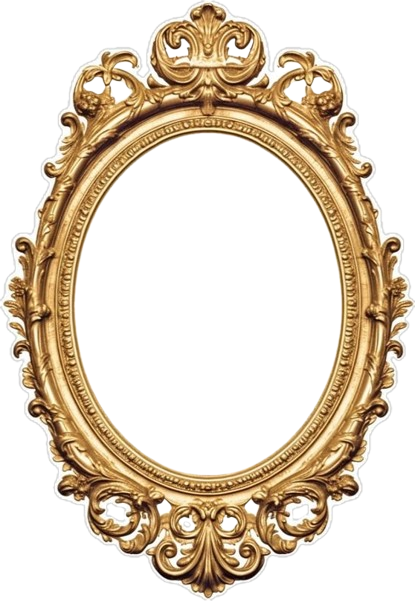
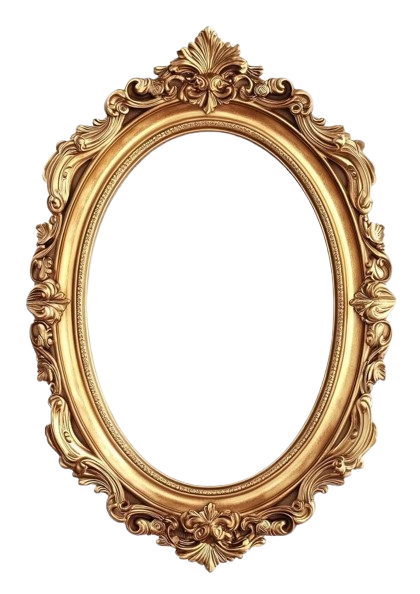
attempt to improve cropping, kinda get there but it's time for bed

diff --git a/src/lib/frames.ts b/src/lib/frames.ts
@@ -14,18 +14,21 @@ export interface FrameConfig {
   shape: FrameShape;
   innerPadding: FrameInnerPadding;
   selectionScale?: number; // scale factor for selection bounding box
+  cropPadding: { top: number; right: number; bottom: number; left: number };
 }
 
+
 export const FRAMES: FrameConfig[] = [
-  { file: "frame1.png", label: "Ornate Gold",      aspect: 3/4,  selectionScale: 1.0,  shape: "rect",   innerPadding: { top: 10, right: 10, bottom: 9,  left: 10 } },
-  { file: "frame2.png", label: "Circle Gold",      aspect: 1/1,  selectionScale: 0.94, shape: "circle", innerPadding: { top: 16, right: 16, bottom: 16, left: 16 } },
-  { file: "frame3.png", label: "Thin Ornate",      aspect: 3/4,  selectionScale: 1.0,  shape: "rect",   innerPadding: { top: 12, right: 10, bottom: 12, left: 10 } },
-  { file: "frame4.png", label: "Simple Gold",      aspect: 3/4,  selectionScale: 1.0,  shape: "rect",   innerPadding: { top: 10, right: 10, bottom: 10, left: 10 } },
-  { file: "frame5.png", label: "Heart",            aspect: 1/1,  selectionScale: 1.0,  shape: "circle", innerPadding: { top: 12, right: 12, bottom: 10, left: 12 } },
-  { file: "frame6.png", label: "Oval Gold",        aspect: 2/3,  selectionScale: 1.0, shape: "oval",   innerPadding: { top: 15, right: 18, bottom: 15, left: 18 } },
-  { file: "frame7.png", label: "Silver Square",    aspect: 1/1,  selectionScale: 1.04,  shape: "rect",   innerPadding: { top: 13, right: 13, bottom: 13, left: 13 } },
-  { file: "frame8.png", label: "Gold Rectangular", aspect: 4/3,  selectionScale: 1.1,  shape: "rect",   innerPadding: { top: 13, right: 8,  bottom: 8,  left: 8  } },
+  { file: "frame1.png", label: "Ornate Gold",      aspect: 3/4,  selectionScale: 1.0,  shape: "rect",   innerPadding: { top: 10, right: 10, bottom: 9,  left: 10 }, cropPadding: { top: 0.18, right: 0.18, bottom: 0.18, left: 0.18 }},
+  { file: "frame2.png", label: "Circle Gold",      aspect: 1/1,  selectionScale: 1.0,  shape: "circle", innerPadding: { top: 16, right: 16, bottom: 16, left: 16 }, cropPadding: { top: 0.28, right: 0.22, bottom: 0.32, left: 0.22 } },
+  { file: "frame3.png", label: "Thin Ornate",      aspect: 3/4,  selectionScale: 1.0,  shape: "rect",   innerPadding: { top: 12, right: 10, bottom: 12, left: 10 }, cropPadding: { top: 0.18, right: 0.18, bottom: 0.18, left: 0.18 } },
+  { file: "frame4.png", label: "Simple Gold",      aspect: 3/4,  selectionScale: 1.0,  shape: "rect",   innerPadding: { top: 10, right: 10, bottom: 10, left: 10 }, cropPadding: { top: 0.18, right: 0.18, bottom: 0.18, left: 0.18 } },
+  { file: "frame5.png", label: "Heart",            aspect: 1/1,  selectionScale: 1.0,  shape: "circle", innerPadding: { top: 12, right: 12, bottom: 10, left: 12 }, cropPadding: { top: 0.08, right: 0.15, bottom: 0.0, left: 0.08 } },
+  { file: "frame6.png", label: "Oval Gold",        aspect: 2/3,  selectionScale: 1.0,  shape: "oval",   innerPadding: { top: 15, right: 18, bottom: 15, left: 18 }, cropPadding: { top: 0.28, right: 0.22, bottom: 0.32, left: 0.22 } },
+  { file: "frame7.png", label: "Silver Square",    aspect: 1/1,  selectionScale: 1.04, shape: "rect",   innerPadding: { top: 13, right: 13, bottom: 13, left: 13 }, cropPadding: { top: 0.18, right: 0.18, bottom: 0.18, left: 0.18 } },
+  { file: "frame8.png", label: "Gold Rectangular", aspect: 4/3,  selectionScale: 1.1,  shape: "rect",   innerPadding: { top: 13, right: 8,  bottom: 8,  left: 8  }, cropPadding: { top: 0.18, right: 0.18, bottom: 0.18, left: 0.18 } },
 ];
+
 
 
 export const DEFAULT_FRAME_FILE = "frame1.png";

diff --git a/src/components/dashboard/UploadZone.tsx b/src/components/dashboard/UploadZone.tsx
@@ -139,7 +139,7 @@ export function UploadZone({
       const { width, height } = e.currentTarget;
       const initial = centerCrop(
         makeAspectCrop(
-          { unit: "%", width: 80 },
+          { unit: "%", width: selectedFrame.shape === "circle" || selectedFrame.shape === "oval" ? 60 : 80 },
           selectedFrame.aspect,
           width,
           height
@@ -446,24 +446,26 @@ export function UploadZone({
                   style={{ maxHeight: 480, display: "block" }}
                 />
               </ReactCrop>
-              {pixelCrop && pixelCrop.width > 0 && (
-                // eslint-disable-next-line @next/next/no-img-element
-                <img
-                  src={`/frames/${selectedFrame.file}`}
-                  alt=""
-                  aria-hidden
-                  style={{
-                    position: "absolute",
-                    top: pixelCrop.y,
-                    left: pixelCrop.x,
-                    width: pixelCrop.width,
-                    height: pixelCrop.height,
-                    pointerEvents: "none",
-                    opacity: 0.7,
-                    zIndex: 5,
-                  }}
-                />
-              )}
+              {pixelCrop && pixelCrop.width > 0 && (() => {
+  const p = selectedFrame.cropPadding;
+  return (
+    <img
+      src={`/frames/${selectedFrame.file}`}
+      alt=""
+      aria-hidden
+      style={{
+        position: "absolute",
+        top:  pixelCrop.y - pixelCrop.height * selectedFrame.cropPadding.top,
+        left: pixelCrop.x - pixelCrop.width  * selectedFrame.cropPadding.left,
+        width:  pixelCrop.width  * (1 + selectedFrame.cropPadding.left + selectedFrame.cropPadding.right),
+        height: "auto",
+        pointerEvents: "none",
+        opacity: 0.6,
+        zIndex: 5,
+      }}
+    />
+  );
+})()}
             </div>
           </div>
 

diff --git a/src/components/gallery/GalleryEditorCanvas.tsx b/src/components/gallery/GalleryEditorCanvas.tsx
@@ -304,6 +304,7 @@ export function GalleryEditorCanvas({ artworks, profileId, onCancel, onSaved, on
       <div
         ref={canvasRef}
         className="relative flex-1 overflow-hidden"
+        style={{ minHeight: 800 }}
         onClick={() => setSelectedId(null)}
       >
         {items.map(item => {
@@ -311,8 +312,6 @@ export function GalleryEditorCanvas({ artworks, profileId, onCancel, onSaved, on
           const px = (item.xPct / 100) * canvasDims.width;
           const py = (item.yPct / 100) * canvasDims.height;
           const isSelected = item.id === selectedId;
-          const artW = BASE_WIDTH * item.scale;
-          const artH = BASE_WIDTH * 1.35 * item.scale;
 
           // Bounding box: rotate all 4 corners around top-left origin (0,0)
           const radians = (item.rotation * Math.PI) / 180;
@@ -338,8 +337,8 @@ export function GalleryEditorCanvas({ artworks, profileId, onCancel, onSaved, on
               bounds={{
                 left: 0,
                 top: 0,
-                right: Math.max(0, canvasDims.width - artW - 20),
-                bottom: Math.max(0, canvasDims.height - artH - 20),
+                right: Math.max(0, canvasDims.width - (maxX - minX) - 20),
+                bottom: Math.max(0, canvasDims.height - (maxX - minX) - 20),
               }}
             >
               <div
